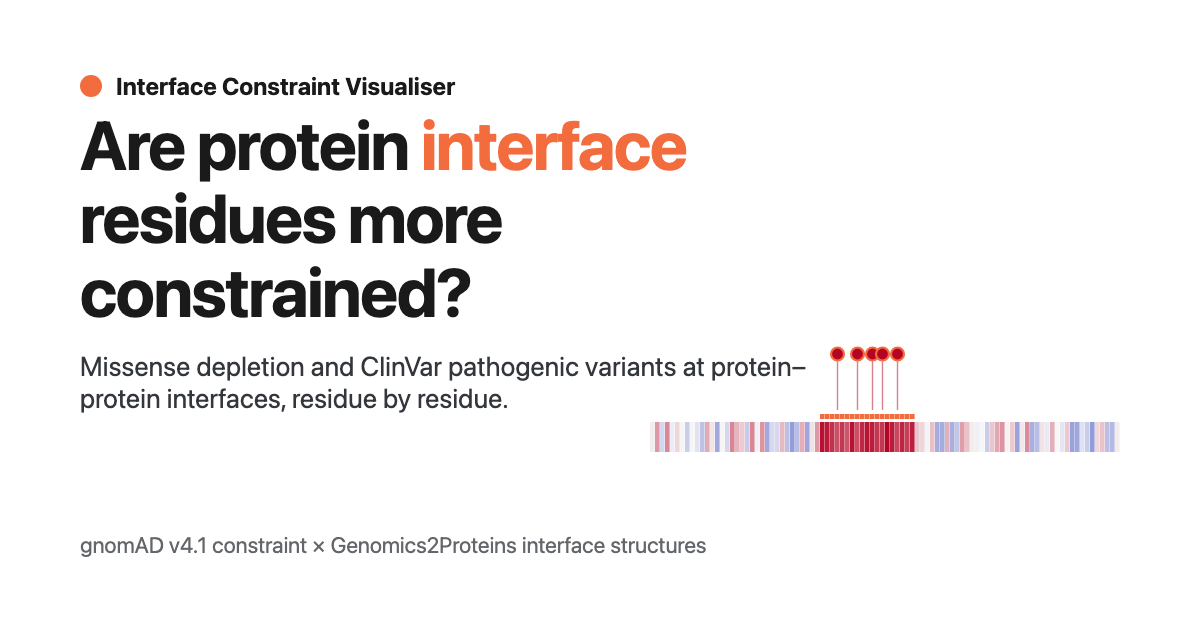
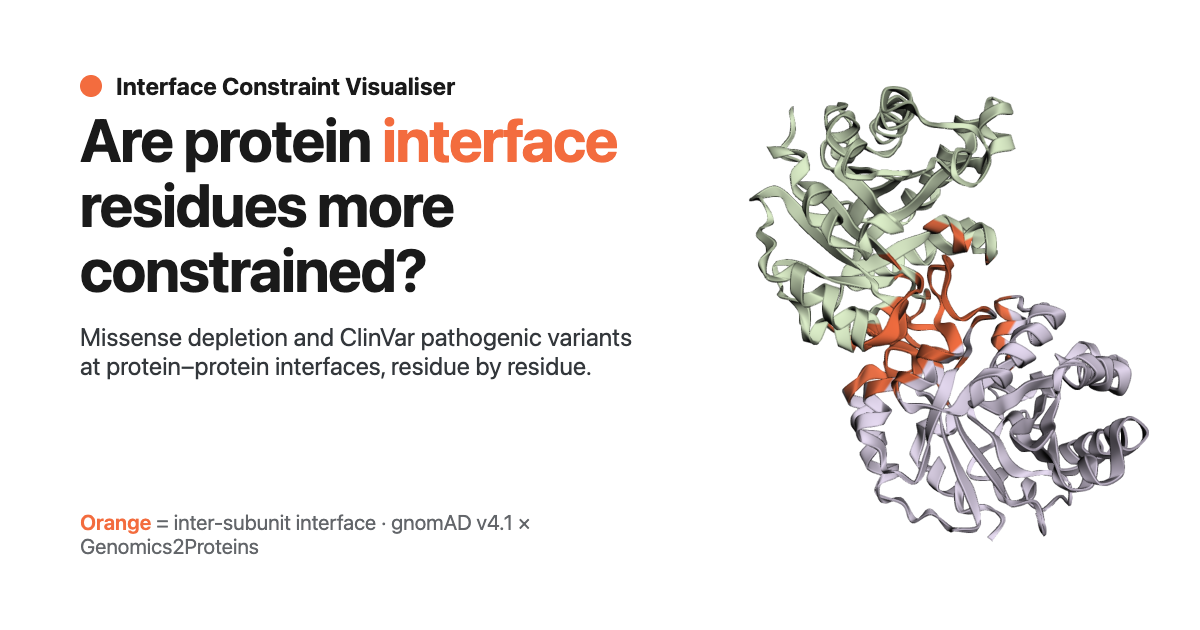
3D: lighter subunit tints; social thumbnail uses a 3D dimer
- Pale green/purple/pink chain tints so the orange interface stands out.
- og-preview.png now renders a real homodimer (TIM, 1HTI) with its
  inter-subunit interface in orange instead of the 2D track.

Changed region(s): [[0.0617, 0.181, 0.6783, 0.6635], [0.5242, 0.1206, 0.9558, 0.8746], [0.0617, 0.8143, 0.5858, 0.9048]]

diff --git a/assets/og.html b/assets/og.html
@@ -1,9 +1,13 @@
 <!doctype html>
 <!-- Source for the social-preview image (assets/og-preview.png).
-     Render at 1200x630 with headless Chrome:
-       chrome --headless --screenshot=assets/og-preview.png --window-size=1200,630 \
-         --default-background-color=00000000 assets/og.html
-     Not served as a page; purely the OG-image template. -->
+     Renders a real 3D complex with its inter-subunit interface in orange.
+     Must be served over http (3Dmol fetches the PDB), then screenshot at
+     1200x630 with headless Chrome + WebGL flags:
+       python3 -m http.server 8140 &
+       chrome --headless=new --enable-unsafe-swiftshader --ignore-gpu-blocklist \
+         --hide-scrollbars --window-size=1200,630 --virtual-time-budget=9000 \
+         --screenshot=assets/og-preview.png http://localhost:8140/assets/og.html
+     Not linked as a page; purely the OG-image template. -->
 <html lang="en">
 <head>
 <meta charset="utf-8">
@@ -12,87 +16,55 @@
   html, body { width: 1200px; height: 630px; }
   body {
     font-family: -apple-system, BlinkMacSystemFont, "Segoe UI", Helvetica, Arial, sans-serif;
-    color: #1a1a1a; background: #ffffff;
-    padding: 72px 80px; position: relative; overflow: hidden;
-    display: flex; flex-direction: column; justify-content: space-between;
+    color: #1a1a1a; background: #ffffff; overflow: hidden; position: relative;
   }
+  .text { position: absolute; left: 80px; top: 72px; width: 560px; height: 486px;
+    display: flex; flex-direction: column; justify-content: space-between; }
   .brand { display: flex; align-items: center; gap: 14px; font-size: 24px; font-weight: 700; }
   .brand .dot { width: 22px; height: 22px; border-radius: 50%; background: #F36C3E; }
-  h1 { font-size: 68px; line-height: 1.08; letter-spacing: -.02em; max-width: 18ch; margin-top: 8px; }
+  h1 { font-size: 60px; line-height: 1.08; letter-spacing: -.02em; max-width: 15ch; margin-top: 8px; }
   h1 em { color: #F36C3E; font-style: normal; }
-  .lede { font-size: 27px; color: #33373b; max-width: 46ch; margin-top: 22px; }
-  .foot { font-size: 22px; color: #63666A; }
-  .viz { position: absolute; right: 80px; bottom: 150px; width: 470px; }
-  .legend { display: flex; gap: 26px; font-size: 19px; color: #63666A; margin-top: 14px; align-items: center; }
-  .legend .k { display: inline-flex; align-items: center; gap: 8px; }
-  .legend .sw { width: 14px; height: 14px; border-radius: 50%; display: inline-block; }
+  .lede { font-size: 25px; color: #33373b; max-width: 42ch; margin-top: 20px; }
+  .foot { font-size: 21px; color: #63666A; }
+  .foot .o { color: #F36C3E; font-weight: 600; }
+  #viz { position: absolute; right: 18px; top: 35px; width: 480px; height: 560px; }
 </style>
 </head>
 <body>
-  <div>
-    <div class="brand"><span class="dot"></span> Interface Constraint Visualiser</div>
-    <h1>Are protein <em>interface</em> residues more constrained?</h1>
-    <p class="lede">Missense depletion and ClinVar pathogenic variants at
-      protein&ndash;protein interfaces, residue by residue.</p>
+  <div class="text">
+    <div>
+      <div class="brand"><span class="dot"></span> Interface Constraint Visualiser</div>
+      <h1>Are protein <em>interface</em> residues more constrained?</h1>
+      <p class="lede">Missense depletion and ClinVar pathogenic variants at
+        protein&ndash;protein interfaces, residue by residue.</p>
+    </div>
+    <p class="foot"><span class="o">Orange</span> = inter-subunit interface &middot;
+      gnomAD v4.1 &times; Genomics2Proteins</p>
   </div>
+  <div id="viz"></div>
 
-  <svg class="viz" viewBox="0 0 470 150" xmlns="http://www.w3.org/2000/svg">
-    <!-- coolwarm per-residue track -->
-    <g id="track"></g>
-    <!-- interface ticks + pathogenic lollipops drawn by script -->
-    <g id="marks"></g>
-  </svg>
-
-  <div class="foot">gnomAD v4.1 constraint &times; Genomics2Proteins interface structures</div>
-
+  <script src="https://cdn.jsdelivr.net/npm/3dmol@2.4.2/build/3Dmol-min.js"></script>
   <script>
-    // Coolwarm interpolation (matches the site's O/E scale).
-    function lerp(a, b, t) { return Math.round(a + (b - a) * t); }
-    function hex(c) { return c.map((v) => v.toString(16).padStart(2, "0")).join(""); }
-    const RED = [180, 4, 38], MID = [247, 247, 247], BLU = [59, 76, 192];
-    function coolwarm(t) {
-      const e = t <= .5 ? RED.map((c, i) => lerp(c, MID[i], t / .5))
-                        : MID.map((c, i) => lerp(c, BLU[i], (t - .5) / .5));
-      return "#" + hex(e);
-    }
-    const N = 94, W = 470, bw = W / N, baseY = 92;
-    // Interface block roughly in the middle (more constrained -> low O/E -> red).
-    const ifaceStart = 34, ifaceEnd = 52;
-    const track = document.getElementById("track");
-    const marks = document.getElementById("marks");
-    for (let i = 0; i < N; i++) {
-      const inIface = i >= ifaceStart && i <= ifaceEnd;
-      // interface residues skew constrained (low O/E), rest scattered near 1.
-      const oe = inIface ? 0.12 + Math.random() * 0.32 : 0.6 + Math.random() * 0.9;
-      const t = Math.max(0, Math.min(1, (oe - 0.15) / (1.85 - 0.15)));
-      const r = document.createElementNS("http://www.w3.org/2000/svg", "rect");
-      r.setAttribute("x", i * bw); r.setAttribute("y", baseY);
-      r.setAttribute("width", Math.max(bw - 0.4, 0.6)); r.setAttribute("height", 30);
-      r.setAttribute("fill", coolwarm(t));
-      track.appendChild(r);
-      if (inIface) {
-        const tick = document.createElementNS("http://www.w3.org/2000/svg", "rect");
-        tick.setAttribute("x", i * bw); tick.setAttribute("y", baseY - 8);
-        tick.setAttribute("width", Math.max(bw - 0.4, 1)); tick.setAttribute("height", 5);
-        tick.setAttribute("fill", "#F36C3E");
-        marks.appendChild(tick);
-      }
-    }
-    // Pathogenic lollipops clustered over the interface block.
-    [37, 41, 44, 46, 49].forEach((i) => {
-      const cx = i * bw + bw / 2;
-      const line = document.createElementNS("http://www.w3.org/2000/svg", "line");
-      line.setAttribute("x1", cx); line.setAttribute("x2", cx);
-      line.setAttribute("y1", baseY - 12); line.setAttribute("y2", 24);
-      line.setAttribute("stroke", "#b40426"); line.setAttribute("stroke-width", 1.4);
-      line.setAttribute("opacity", 0.5);
-      marks.appendChild(line);
-      const dot = document.createElementNS("http://www.w3.org/2000/svg", "circle");
-      dot.setAttribute("cx", cx); dot.setAttribute("cy", 24); dot.setAttribute("r", 6.5);
-      dot.setAttribute("fill", "#b40426");
-      dot.setAttribute("stroke", "#F36C3E"); dot.setAttribute("stroke-width", 2.2);
-      marks.appendChild(dot);
-    });
+    const CHAIN_TINTS = ["#DCEEC8", "#E6DAF2", "#FBD3D8"];  // pale subunit colours
+    const INTERFACE = "#F36C3E";                            // Broad orange
+    const CHAINS = ["A", "B"];                              // TIM homodimer (clear interface plane)
+    (async () => {
+      const data = await (await fetch("1hti.pdb")).text();
+      const v = window.$3Dmol.createViewer(document.getElementById("viz"),
+        { backgroundColor: "white", antialias: true });
+      v.addModel(data, "pdb");
+      CHAINS.forEach((ch, i) =>
+        v.setStyle({ chain: ch }, { cartoon: { color: CHAIN_TINTS[i % CHAIN_TINTS.length] } }));
+      CHAINS.forEach((ch) =>
+        v.addStyle({ chain: ch, byres: true, within: { distance: 4.0, sel: { chain: CHAINS.filter((c) => c !== ch) } } },
+          { cartoon: { color: INTERFACE } }));
+      // Orient the two-fold interface plane toward the camera, then fit.
+      v.rotate(90, "y");
+      v.zoomTo();
+      v.zoom(0.95);
+      v.render();
+      window.__ready = true;   // screenshot signal
+    })();
   </script>
 </body>
 </html>

diff --git a/js/structure3d.js b/js/structure3d.js
@@ -6,7 +6,7 @@
 
 // Light Broad tints per subunit so the distinct proteins in the complex read
 // clearly; interface residues are drawn over these in orange.
-const CHAIN_TINTS = ["#C1E6A0", "#D6C0E9", "#FEA2A9"];  // light green, purple, red
+const CHAIN_TINTS = ["#DCEEC8", "#E6DAF2", "#FBD3D8"];  // pale green, purple, pink (non-interface)
 const INTERFACE = "#F36C3E";  // Broad orange
 
 const STRUCTURES = [
